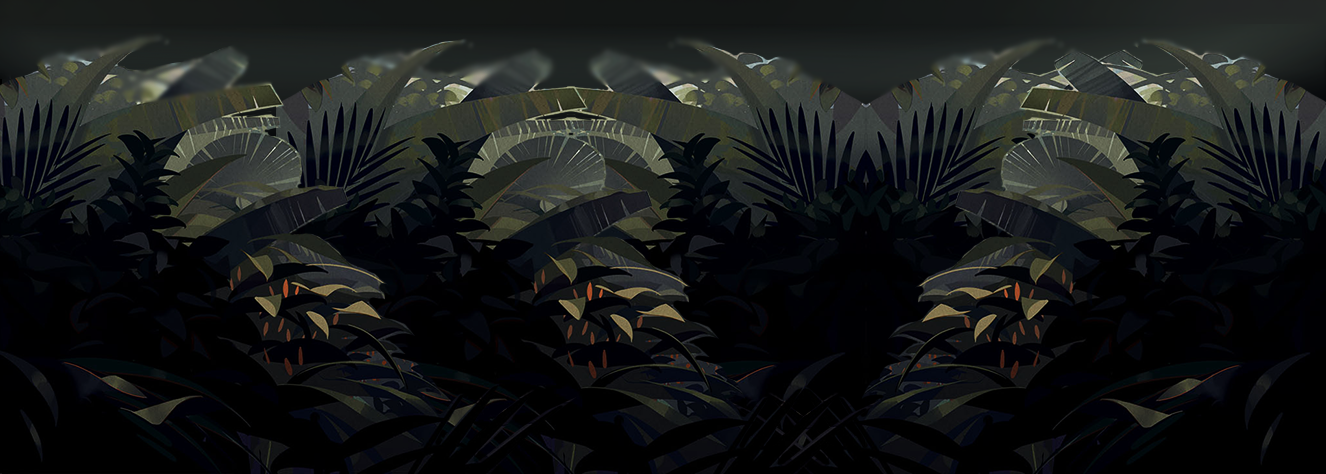
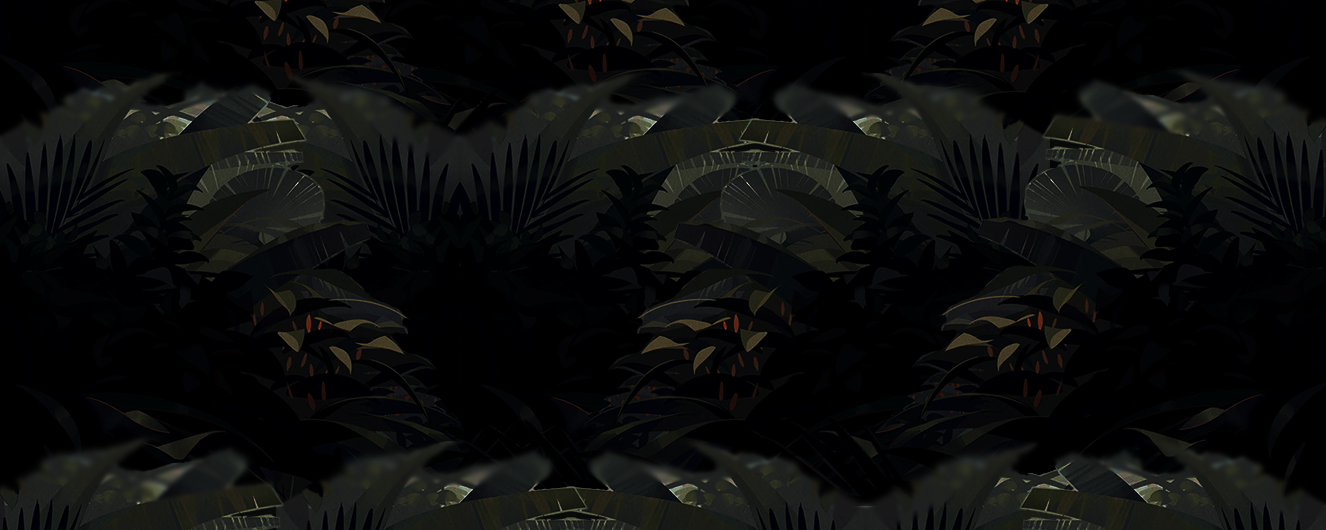
use image hosting

diff --git a/index.html b/index.html
@@ -12,7 +12,7 @@
 <body>
     <div id="head" class="containerFluid clear">
         <div id="logo" class="l">
-            <h1 class="l"><a href="index.html">@社蕙主义</a></h1>
+            <h1 class="l"><a href="./index.html">@社蕙主义</a></h1>
             <p class="l">Megumism<br>春社野蕙，生生不息</p>
         </div>
         <ul class="nav r">
@@ -20,13 +20,14 @@
             <li><a href="">文章</a></li>
             <li><a href="">设计</a></li>
             <li><a href="">青春坟场</a></li>
-            <li><a href="">收藏</a></li>
+            <li><a href="collection/collection.html">收藏</a></li>
         </ul>
     </div>
 
     <div id="window" class="containerFluid">
         <a href="tetrees/tetrees.html">
-            <img src="img/69371385_p0.jpg" alt="noriZC">
+            <!-- <img src="img/69371385_p0.jpg" alt="noriZC"> -->
+            <img src="https://s2.ax1x.com/2020/02/09/1hzZ5D.jpg" alt="noriZC">
         </a>
 
     </div>
@@ -40,7 +41,8 @@
             <div id="columnContent" class="clear">
                 <!-- <p>男的，现就读于上海交通大学，无神论者，自认为良善正直，深刻地认识到自己十分平凡并正在学会坦然接受这一点。</p> -->
                 <div id="columnSelfie" class="l clear">
-                    <img src="img/selfie.png" alt="">
+                    <!-- <img src="img/selfie.png" alt=""> -->
+                    <img src="https://s2.ax1x.com/2020/02/17/3P12KU.png" alt="">
                 </div>
                 <!-- 之后要做一个鼠标放上去的效果！ -->
                 <ul class="l clear">

diff --git a/collection/collection.html b/collection/collection.html
@@ -1,0 +1,48 @@
+<!DOCTYPE html>
+<html lang="zh-CN">
+
+<head>
+    <meta charset="UTF-8">
+    <meta name="viewport" content="width=device-width, initial-scale=1.0">
+    <title>社蕙主义-收藏</title>
+    <link rel="stylesheet" href="../blogcommon.css">
+    <link rel="stylesheet" href="collection.css">
+</head>
+
+<body>
+    <div id="head" class="containerFluid clear">
+        <div id="logo" class="l">
+            <h1 class="l"><a href="../index.html">@社蕙主义</a></h1>
+            <p class="l">Megumism<br>春社野蕙，生生不息</p>
+        </div>
+        <ul class="nav r">
+            <!-- <li><a href="">主页</a></li> -->
+            <li><a href="">文章</a></li>
+            <li><a href="">设计</a></li>
+            <li><a href="">青春坟场</a></li>
+            <li><a href="">收藏</a></li>
+        </ul>
+    </div>
+
+    <div id="column" class="containerFluid">
+        <div id="columnBox" class="container">
+        </div>
+    </div>
+
+    <div id="foot">
+        <div id="links" class="clear">
+            <h2>———友情链接———</h2>
+            <ul class="clear">
+                <li>
+                    <a href="https://www.jonbgua.com/">酱瓜的博客</a>
+                </li>
+                <li>
+                    <a href="https://www.sufeqs.com/">曲水流觞的博客</a>
+                </li>
+            </ul>
+        </div>
+        <p>由社蕙设计 Copyright © 2020 Non-sense 图片素材均取自@NoriZC</p>
+    </div>
+</body>
+
+</html>

diff --git a/blogindex.css b/blogindex.css
@@ -23,7 +23,8 @@
 }
 
 #column {
-  background: url("img/columnBG.png") center bottom;
+  background: url("https://s2.ax1x.com/2020/02/17/3PlakR.png") center bottom;
+  /* background: url("img/columnBG") center bottom; */
   min-height: 424px;
   overflow: hidden;
   position: relative;

diff --git a/img/图床.md b/img/图床.md
@@ -1,10 +1,13 @@
 # 本文件夹下的图对应图床
 
-所用的网站：<https://imgchr.com>
+## 所用的网站：[路过图床](https://imgchr.com)
 
-- img/69371385_p0.jpg
+- 69371385_p0.jpg
   <https://imgchr.com/i/1hzZ5D>
   <https://s2.ax1x.com/2020/02/09/1hzZ5D.jpg>
-- img/selfie.jpg
-  <https://imgchr.com/i/1hzVUO>
-  <https://s2.ax1x.com/2020/02/09/1hzVUO.jpg>
+- selfie.png
+  <https://imgchr.com/i/3P12KU>
+  <https://s2.ax1x.com/2020/02/17/3P12KU.png>
+- columnBG.png
+  <https://imgchr.com/i/3PlakR>
+  <https://s2.ax1x.com/2020/02/17/3PlakR.png>
